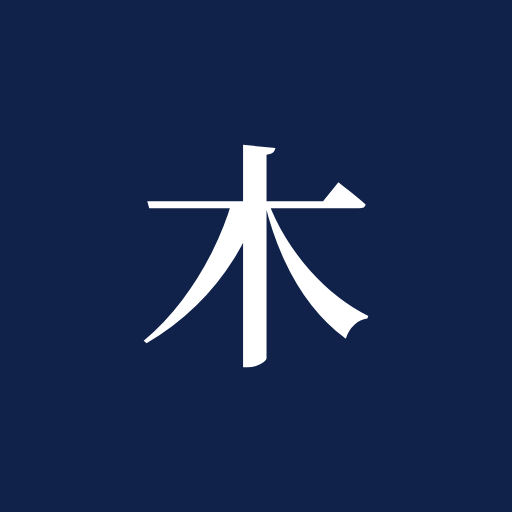
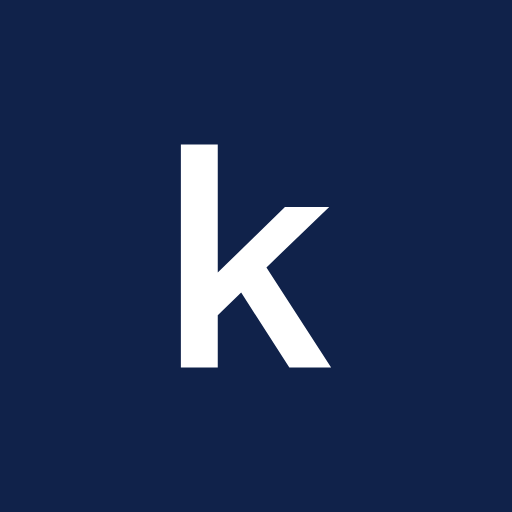
Retire the 木 mark for an interim "k" tile
A new logo is coming with the mascot, so the kanji goes now. The header,
login and OAuth callback show the wordmark alone. Anything that needs a
square (favicon, app icons, OG card, question images, bouncing logos, the
paper swatch) gets a navy tile with a lowercase "k" in Schibsted Grotesk
600, stored in brand.json like the 木 outline was.

Changed region(s): [[0.2812, 0.2812, 0.7188, 0.7188]]

diff --git a/client/src/pages/Login.tsx b/client/src/pages/Login.tsx
@@ -1,4 +1,4 @@
-import { Alert, Box, Button, Center, Text, TextInput, Title } from "@mantine/core";
+import { Alert, Box, Button, Text, TextInput, Title } from "@mantine/core";
 import { useRef, useState } from "react";
 import { useLocation } from "react-router";
 import { useHaptic } from "use-haptic";
@@ -10,7 +10,6 @@ import { useLogin } from "../api/authService";
 import { AuthPanel } from "../components/AuthPanel";
 import { E2ELoginPanel } from "../components/login/E2ELoginPanel";
 import { HandleSuggestions } from "../components/login/HandleSuggestions";
-import { BrandMark } from "../components/BrandMark";
 import { APP_DOMAIN, APP_NAME } from "../lib/brand";
 import { useTranslations } from "../lib/i18n";
 import { usePageTitle } from "../lib/usePageTitle";
@@ -68,9 +67,6 @@ function LoginForm() {
   return (
     <Box maw={480} mx="auto">
       <AuthPanel>
-        <Center>
-          <BrandMark size={56} />
-        </Center>
         <Box ta="center">
           <Title order={1} fw={600} fz={22}>
             {messages.loginPage.logInToPrefix}

diff --git a/client/src/tests/components/Wordmark.test.tsx b/client/src/tests/components/Wordmark.test.tsx
@@ -6,18 +6,9 @@ import { APP_NAME } from "../../lib/brand";
 import { renderWithProviders } from "../testUtils";
 
 describe("Wordmark", () => {
-  it("includes the mark tile when showMark is true (default)", () => {
+  it("renders the app name as one word, with no mark", () => {
     const { container } = renderWithProviders(<Wordmark />);
-    expect(container.querySelector("svg")).not.toBeNull();
-  });
-
-  it("does not include the mark tile when showMark is false", () => {
-    const { container } = renderWithProviders(<Wordmark showMark={false} />);
-    expect(container.querySelector("svg")).toBeNull();
-  });
-
-  it("renders the app name as one word", () => {
-    renderWithProviders(<Wordmark showMark={false} />);
     expect(screen.getByText(APP_NAME)).toBeInTheDocument();
+    expect(container.querySelector("svg")).toBeNull();
   });
 });

diff --git a/server/src/lib/question-image/mark.ts b/server/src/lib/question-image/mark.ts
@@ -1,10 +1,10 @@
 import { MARK_GLYPH_PATH, MARK_TILE_RADIUS } from "#/lib/brand";
 
 /**
- * The app mark — 木 as an outline, the same path `client/src/components/BrandMark.tsx`
+ * The app mark as an outline, the same path `client/src/components/BrandMark.tsx`
  * draws — as an inline SVG tile the question-image templates can drop into a
  * flex row. Inlined so the image service never makes a second request for it
- * mid-render, and an outline so it needs no serif webfont.
+ * mid-render, and an outline so it needs no webfont.
  */
 export function markTile(size: number, tile: string, glyph: string): string {
   return `<svg class="mark" width="${size}" height="${size}" viewBox="0 0 160 160" aria-hidden="true"><rect width="160" height="160" rx="${MARK_TILE_RADIUS}" fill="${tile}"/><path d="${MARK_GLYPH_PATH}" fill="${glyph}"/></svg>`;

diff --git a/client/src/pages/OAuthCallback.tsx b/client/src/pages/OAuthCallback.tsx
@@ -6,7 +6,6 @@ import { Link, useNavigate, useLocation } from "react-router";
 import { apiClient } from "../api/apiClient";
 import { authKeys } from "../api/authService";
 import { AuthPanel } from "../components/AuthPanel";
-import { BrandMark } from "../components/BrandMark";
 import { useTranslations } from "../lib/i18n";
 import { resolveApiErrorMessage } from "../lib/i18n/apiErrors";
 import { dangerText } from "../styles/tokens";
@@ -41,10 +40,6 @@ export default function OAuthCallback() {
   return (
     <Box maw={480} mx="auto" mt="xl">
       <AuthPanel>
-        <Box ta="center">
-          <BrandMark size={56} />
-        </Box>
-
         {loading ? (
           <>
             <Title order={1} fw={600} fz={22} ta="center">

diff --git a/client/src/components/Wordmark.tsx b/client/src/components/Wordmark.tsx
@@ -1,19 +1,12 @@
 import { APP_NAME } from "../lib/brand";
-import { BrandMark } from "./BrandMark";
 
 import * as styles from "./Wordmark.styles";
 
 interface WordmarkProps {
   size?: number;
-  showMark?: boolean;
 }
 
-/** The lockup: 木 tile beside the lowercase wordmark, one tone. */
-export function Wordmark({ size = 17, showMark = true }: WordmarkProps) {
-  return (
-    <span style={styles.lockup}>
-      {showMark && <BrandMark size={size + 13} aria-hidden />}
-      <span style={styles.name(size)}>{APP_NAME}</span>
-    </span>
-  );
+/** The lowercase wordmark, one tone. */
+export function Wordmark({ size = 17 }: WordmarkProps) {
+  return <span style={styles.name(size)}>{APP_NAME}</span>;
 }

diff --git a/client/src/tests/components/ProfileThemeSwatches.test.tsx b/client/src/tests/components/ProfileThemeSwatches.test.tsx
@@ -22,7 +22,7 @@ describe("ProfileThemeSwatches", () => {
     expect(preview.style.aspectRatio.replace(/\s/g, "")).toBe("4/3");
   });
 
-  it("marks the paper preset with the 木 tile so a white swatch does not read as empty", () => {
+  it("marks the paper preset with the mark tile so a white swatch does not read as empty", () => {
     renderWithProviders(<ProfileThemeSwatches value="royal" disabled={false} onPick={() => {}} />);
     expect(screen.getByRole("button", { name: "Paper" }).querySelector("svg")).not.toBeNull();
     expect(screen.getByRole("button", { name: "Ink" }).querySelector("svg")).toBeNull();

diff --git a/client/index.html b/client/index.html
@@ -9,7 +9,7 @@
   <link rel="icon" type="image/png" sizes="32x32" href="/favicon-32x32.png?v=3" />
   <link rel="icon" type="image/png" sizes="16x16" href="/favicon-16x16.png?v=3" />
   <!-- Schibsted Grotesk carries the UI, Noto Sans JP the Japanese copy. The
-       mark (木) is an SVG outline, so no serif webfont is loaded for it. -->
+       mark is an SVG outline, so it needs no webfont. -->
   <link rel="preconnect" href="https://fonts.googleapis.com" />
   <link rel="preconnect" href="https://fonts.gstatic.com" crossorigin />
   <link

diff --git a/client/src/tests/components/BrandMark.test.tsx b/client/src/tests/components/BrandMark.test.tsx
@@ -6,7 +6,7 @@ import { BrandMark } from "../../components/BrandMark";
 import { APP_NAME, MARK_GLYPH_PATH } from "../../lib/brand";
 
 describe("BrandMark", () => {
-  it("renders the 木 tile without crashing with default props", () => {
+  it("renders the mark tile without crashing with default props", () => {
     const { container } = render(<BrandMark />);
     const svg = container.querySelector("svg");
     expect(svg).not.toBeNull();

diff --git a/client/src/components/BrandMark.tsx b/client/src/components/BrandMark.tsx
@@ -9,8 +9,8 @@ interface BrandMarkProps {
 }
 
 /**
- * 木 (Noto Serif JP, weight 600) as an outline, so the mark needs no webfont
- * and renders identically as a favicon, in the app header, and on the OG card.
+ * The interim "k" tile (Schibsted Grotesk, weight 600) as an outline, so it
+ * needs no webfont and renders identically as a favicon and on the OG card.
  */
 export function BrandMark({
   size = 40,

diff --git a/client/src/components/Wordmark.styles.ts b/client/src/components/Wordmark.styles.ts
@@ -2,12 +2,6 @@ import type { CSSProperties } from "react";
 
 import { textDefault } from "../styles/tokens";
 
-export const lockup: CSSProperties = {
-  display: "inline-flex",
-  alignItems: "center",
-  gap: 10,
-};
-
 export const name = (size: number): CSSProperties => ({
   fontFamily: "var(--ds-font-sans)",
   fontWeight: 600,

diff --git a/opengraph-service/internal/shim/brand.go b/opengraph-service/internal/shim/brand.go
@@ -6,7 +6,7 @@ package shim
 
 const AppName = "kodamachi"
 
-// MarkTileRadius and MarkGlyphPath draw the 木 mark in a 160x160 viewBox.
+// MarkTileRadius and MarkGlyphPath draw the mark in a 160x160 viewBox.
 const MarkTileRadius = 36.67
 
-const MarkGlyphPath = "M84.8 58.08Q87.68 65.85 92.04 72.9Q96.41 79.95 101.73 85.9Q107.06 91.85 112.96 96.46Q118.86 101.06 125 104.04L124.62 105.09Q121.74 105.47 119.43 107.59Q117.13 109.7 115.98 113.15Q108.4 107.59 102.16 99.62Q95.93 91.66 91.23 81.39Q86.52 71.12 83.45 58.65ZM81.25 59.61Q77.51 70.93 71.17 81.1Q64.84 91.27 56.06 99.86Q47.28 108.45 36.15 114.97L35 113.92Q43.44 106.91 50.4 97.7Q57.36 88.49 62.44 78.27Q67.53 68.05 70.41 58.08H81.25ZM87.77 36.78Q87.68 37.73 86.96 38.45Q86.24 39.17 84.22 39.46V121.11Q84.22 121.69 83.12 122.51Q82.01 123.32 80.24 123.94Q78.46 124.57 76.64 124.57H74.82V35.43ZM113.01 50.5Q113.01 50.5 114.11 51.36Q115.21 52.22 116.94 53.57Q118.67 54.91 120.54 56.44Q122.41 57.98 123.94 59.32Q123.66 60.86 121.26 60.86H37.21L36.44 58.08H106.87Z"
+const MarkGlyphPath = "M49.71 125V35H64.58V86.7L91.68 60.2H109.52L84.21 84.59L110.29 125H93.44L74.02 94.76L64.58 103.87V125Z"

diff --git a/opengraph-service/cmd/genbrand/main.go b/opengraph-service/cmd/genbrand/main.go
@@ -27,7 +27,7 @@ package shim
 
 const AppName = %q
 
-// MarkTileRadius and MarkGlyphPath draw the 木 mark in a 160x160 viewBox.
+// MarkTileRadius and MarkGlyphPath draw the mark in a 160x160 viewBox.
 const MarkTileRadius = %v
 
 const MarkGlyphPath = %q
